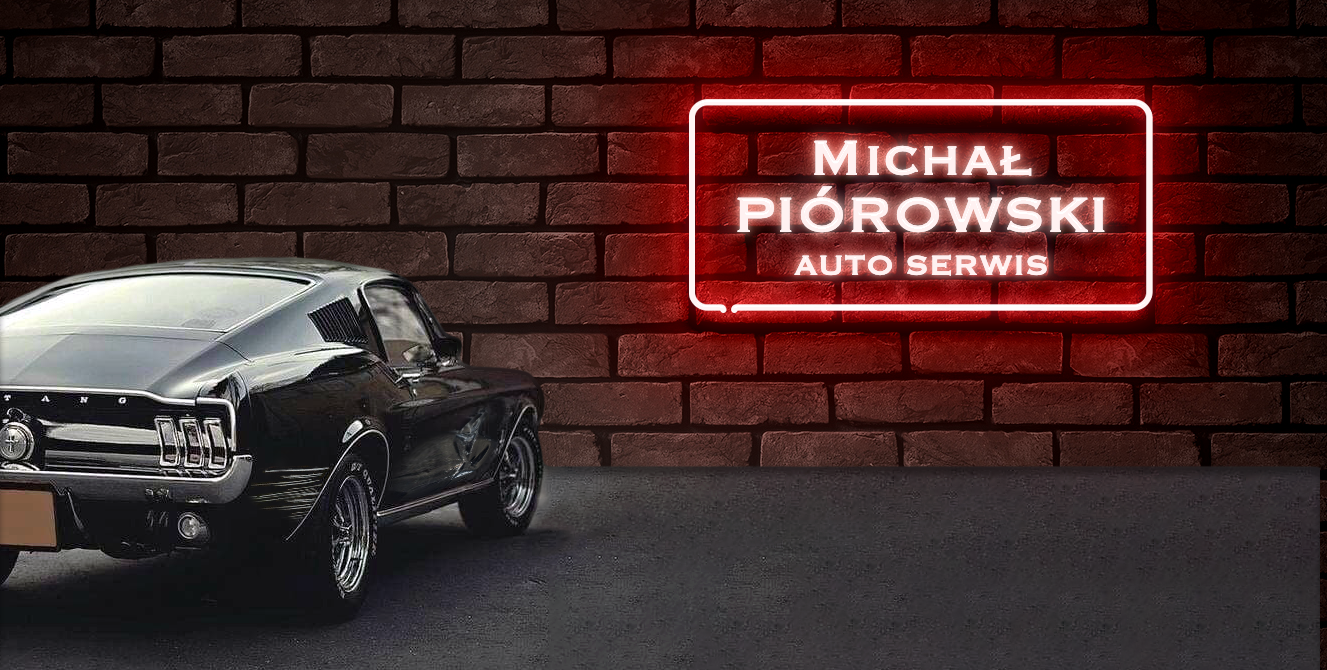
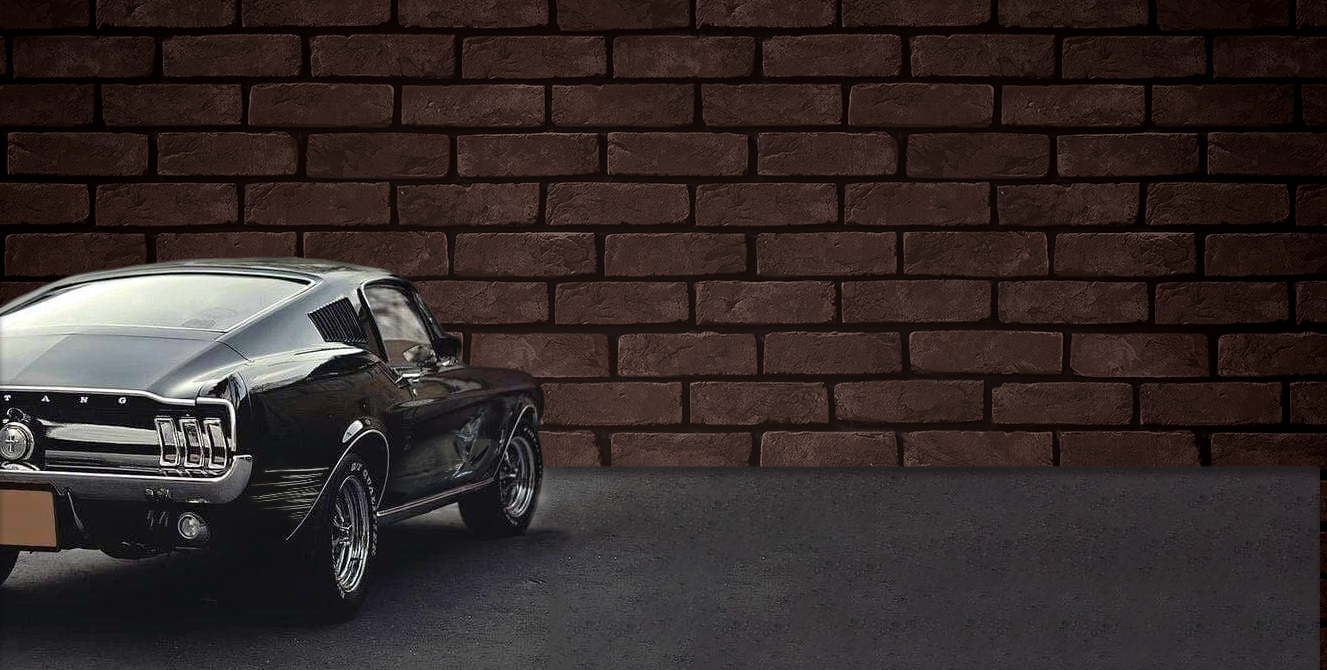
Add text sections

Changed region(s): [[0.4635, 0.0299, 0.9269, 0.597]]

diff --git a/src/utils/GlobalStyledComponents.ts b/src/utils/GlobalStyledComponents.ts
@@ -1,5 +1,10 @@
 import styled from 'styled-components';
 
+type tTitleText = {
+  fontSize?: string;
+};
+
+
 export const Car = styled.div`
   position: relative;
   background-size: cover;
@@ -13,3 +18,40 @@ export const Car = styled.div`
   flex-direction: column;
 `;
 
+export const Box = styled.div`
+  padding: 20px;
+  width: 400px;
+  height: auto;
+  border: 3px solid white;
+  border-radius: 20px;
+  display: flex;
+  justify-content: center;
+  align-items: center;
+  flex-direction: column;
+`;
+
+export const TitleText = styled.p<tTitleText>`
+  font-size: ${({ fontSize }) => fontSize || '3rem'};
+  font-weight: bold;
+  margin: 0;
+  padding: 0;
+  text-align: center;
+  line-height: 60px;
+`;
+
+export const Wrapper = styled.div`
+  position: absolute;
+  top: 200px;
+  right: 100px;
+  max-width: 50%;
+  min-width: 50%;
+  display: flex;
+  align-items: center;
+  flex-direction: column;
+`;
+
+export const Paragraph = styled.p`
+  text-align: center;
+  font-size: 24px;
+  line-height: 35px;
+`;

diff --git a/src/views/AboutMePage/AboutMePage.tsx b/src/views/AboutMePage/AboutMePage.tsx
@@ -1,9 +1,29 @@
 import React from 'react';
 import { ScrollButton } from 'components';
+import {
+  Box,
+  TitleText,
+  Wrapper,
+  Paragraph,
+} from 'utils/GlobalStyledComponents';
 import { BlackBrokenCar } from './AboutMePage.style';
 
 const AboutMePage = () => (
   <BlackBrokenCar id='aboutUs'>
+    <Wrapper>
+      <Box>
+        <TitleText>O nas</TitleText>
+      </Box>
+      <Paragraph>
+        Wieloletnie doświadczenie oraz pasja do motoryrazji! Oddając samochód do
+        naszego warsztatu możesz być pewien, że naprawimy go szybko i fachowo.
+        Profesjonalizm oraz zadowolenie klienta to nasz wartośc priorytetowa.
+        Naszym atutem jest również jest fakt, że współpracując z towarzystwami
+        ubezpieczeniowymi oferujemy likwidacje szkód komunikacyjnych jako
+        naprawy bezgotówkowe.
+      </Paragraph>
+    </Wrapper>
+
     <ScrollButton to='tinsmithing' arrowDirection='down' />
   </BlackBrokenCar>
 );

diff --git a/src/views/TinsmithingPage/TinsmithingPage.tsx b/src/views/TinsmithingPage/TinsmithingPage.tsx
@@ -1,9 +1,24 @@
 import React from 'react';
 import { ScrollButton } from 'components';
+import {
+  Box,
+  TitleText,
+  Wrapper,
+  Paragraph,
+} from 'utils/GlobalStyledComponents';
 import { BlackFixedCar } from './TinsmithingPage.style';
 
 const TinsmithingPage = () => (
   <BlackFixedCar id='tinsmithing'>
+    <Wrapper>
+      <Box>
+        <TitleText>Blacharstwo</TitleText>
+      </Box>
+      <Paragraph>
+        Posiadamy płytę blacharską do naciągania oraz profesjonalne maszyny i
+        narzędzia, dzięki czemu wykonujemy kompleksowe naprawy blacharskie.
+      </Paragraph>
+    </Wrapper>
     <ScrollButton to='varnishing' arrowDirection='down' />
   </BlackFixedCar>
 );

diff --git a/src/views/VarnishingPage/VarnishingPage.tsx b/src/views/VarnishingPage/VarnishingPage.tsx
@@ -1,9 +1,24 @@
 import React from 'react';
 import { ScrollButton } from 'components';
+import {
+  Box,
+  TitleText,
+  Wrapper,
+  Paragraph,
+} from 'utils/GlobalStyledComponents';
 import { RedFixedCar } from './VarnishingPage.style';
 
 const VarnishingPage = () => (
   <RedFixedCar id='varnishing'>
+    <Wrapper>
+      <Box>
+        <TitleText>Lakietnictwo</TitleText>
+      </Box>
+      <Paragraph>
+        Lakierowanie odbywa się w specjalnej komorze lakierniczej, a stosowane
+        przez nas materiały i lakiery są najwyższej jakości.
+      </Paragraph>
+    </Wrapper>
     <ScrollButton to='main' arrowDirection='up' />
   </RedFixedCar>
 );

diff --git a/src/views/MainPage/MainPage.tsx b/src/views/MainPage/MainPage.tsx
@@ -1,10 +1,24 @@
 import React from 'react';
 import { ScrollButton } from 'components';
+import {
+  Box,
+  TitleText,
+  Wrapper,
+  Paragraph,
+} from 'utils/GlobalStyledComponents';
 import { BlackBrokenCarImg } from './MainPage.style';
 
 const MainPage = () => {
   return (
     <BlackBrokenCarImg id='main'>
+      <Wrapper>
+        <Box>
+          <TitleText>Michał</TitleText>
+          <TitleText fontSize='4rem'>Piórowski</TitleText>
+          <TitleText>Auto serwis</TitleText>
+        </Box>
+        <Paragraph>Oświęcim</Paragraph>
+      </Wrapper>
       <ScrollButton to='aboutUs' arrowDirection='down' />
     </BlackBrokenCarImg>
   );

diff --git a/src/index.css b/src/index.css
@@ -10,6 +10,7 @@ body {
     sans-serif;
   -webkit-font-smoothing: antialiased;
   -moz-osx-font-smoothing: grayscale;
+  font-size: 16px;
 }
 
 code {
